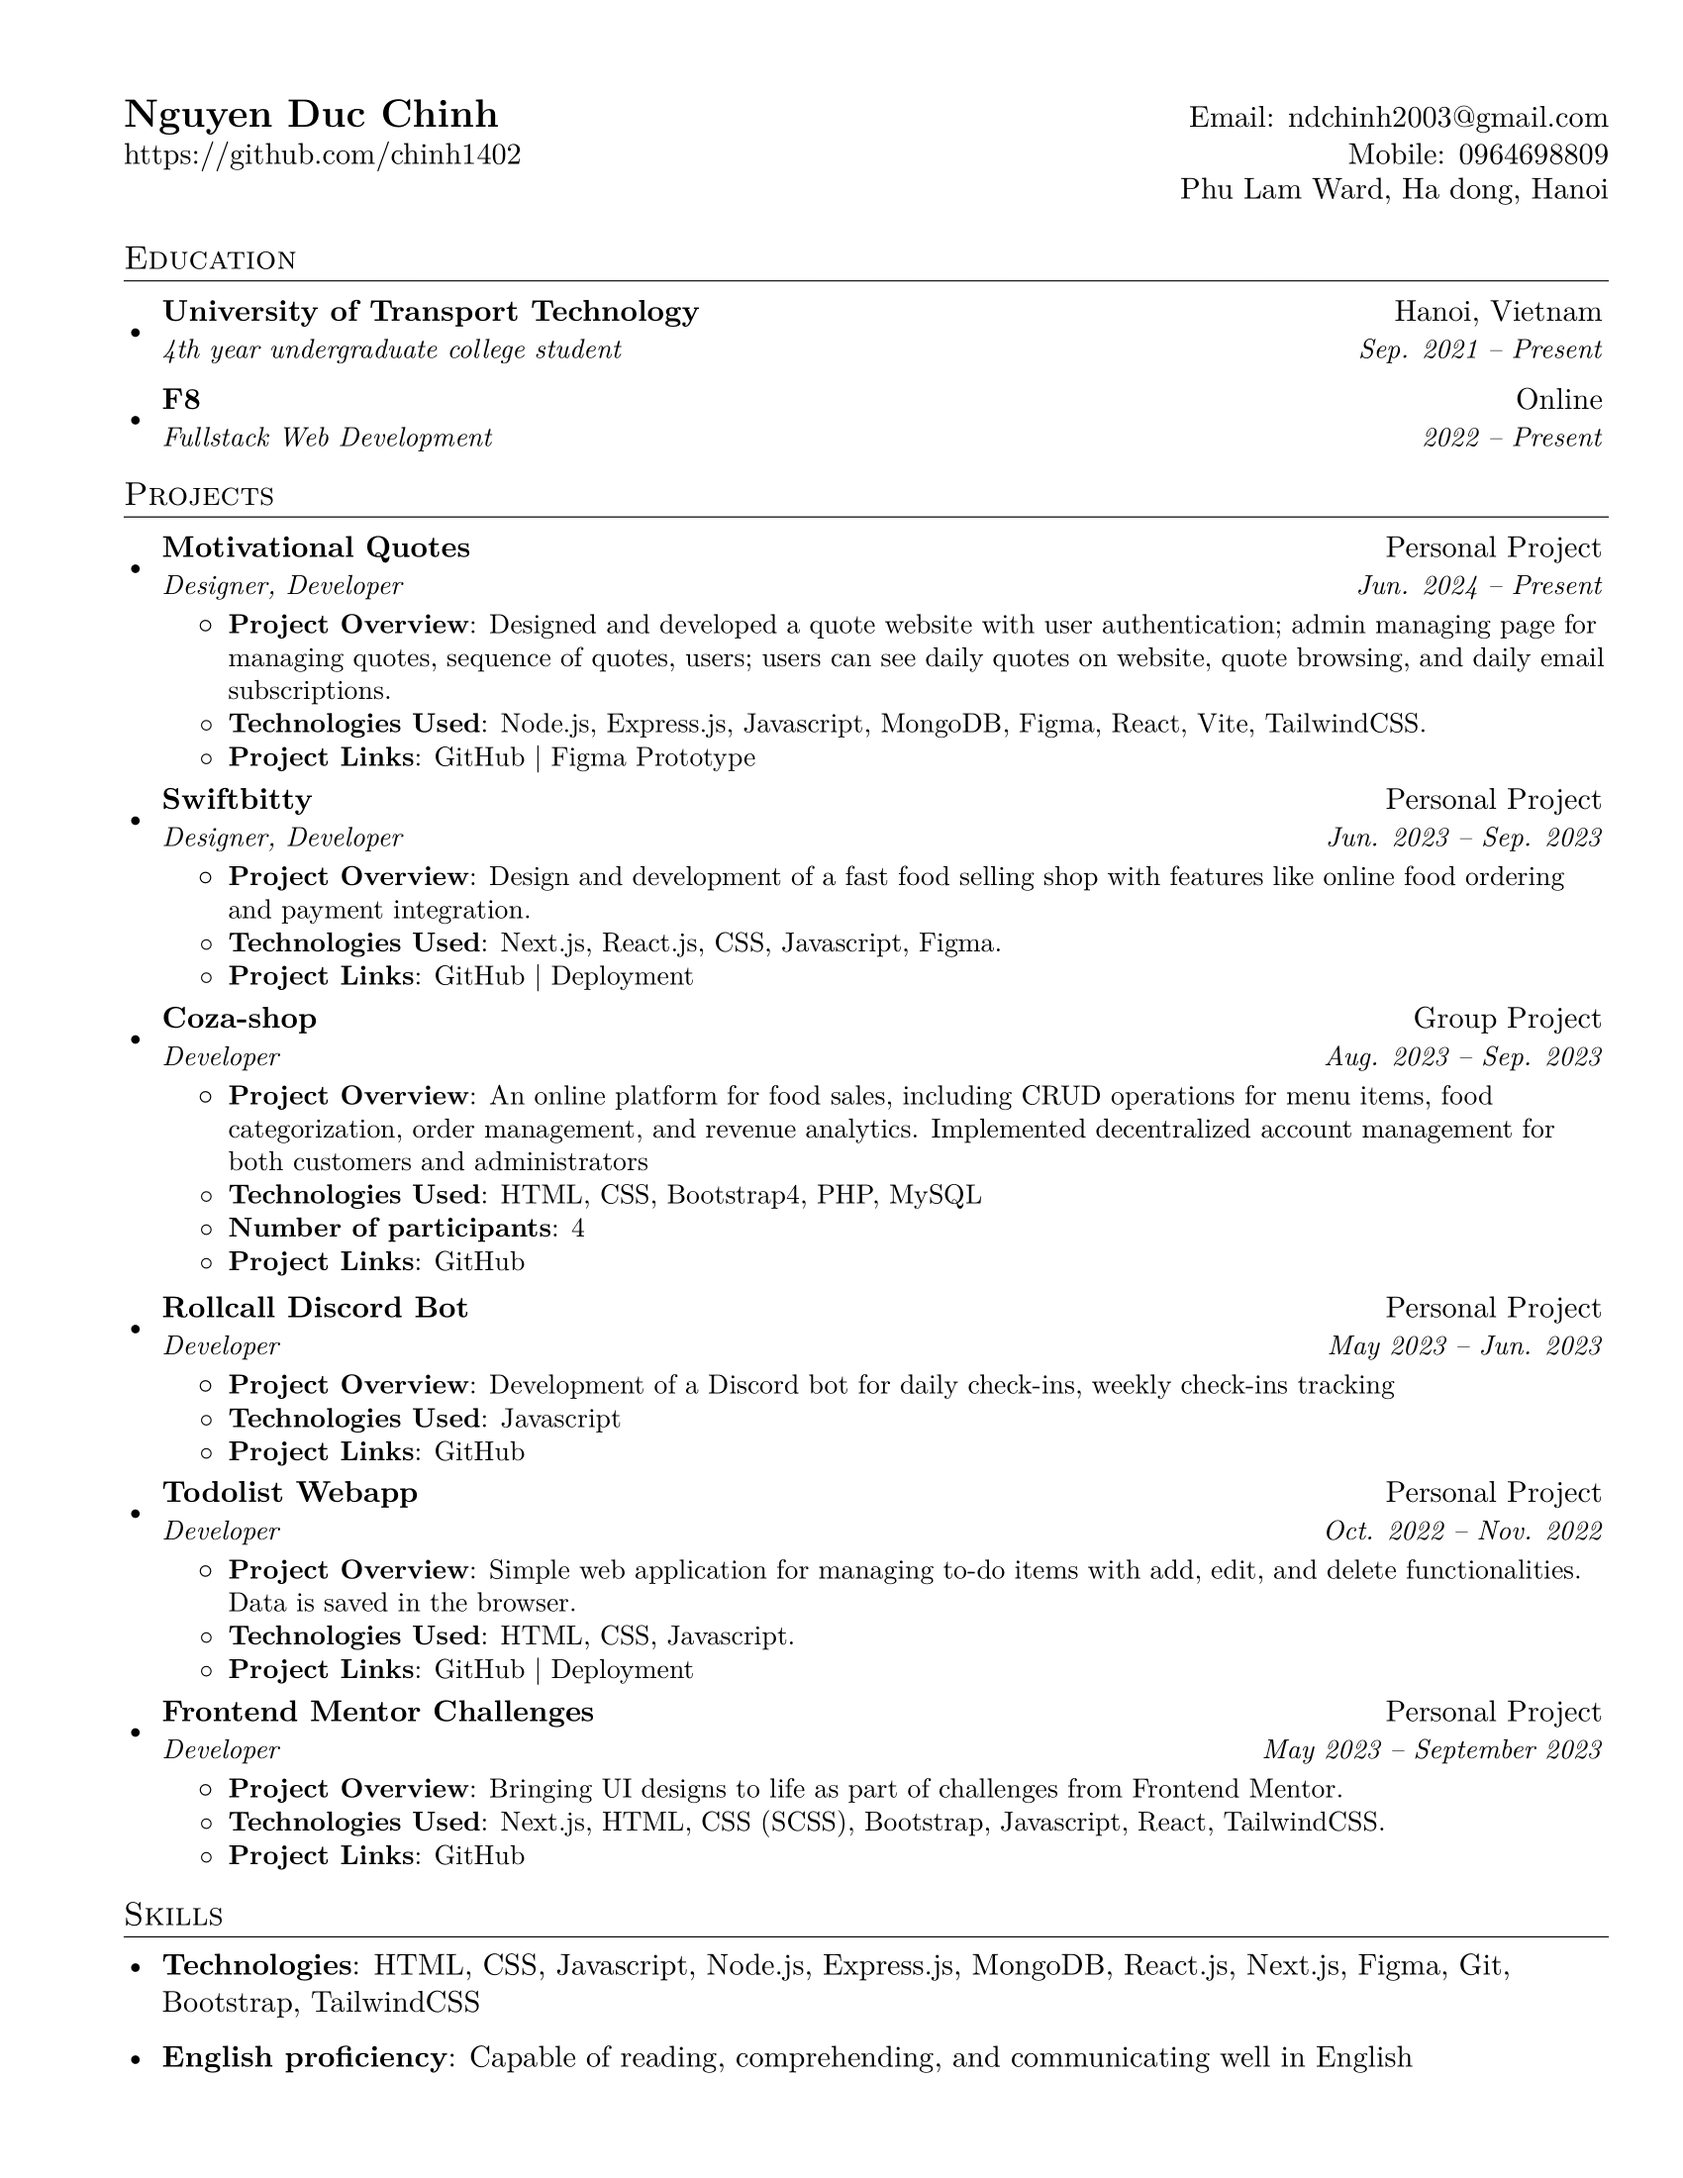
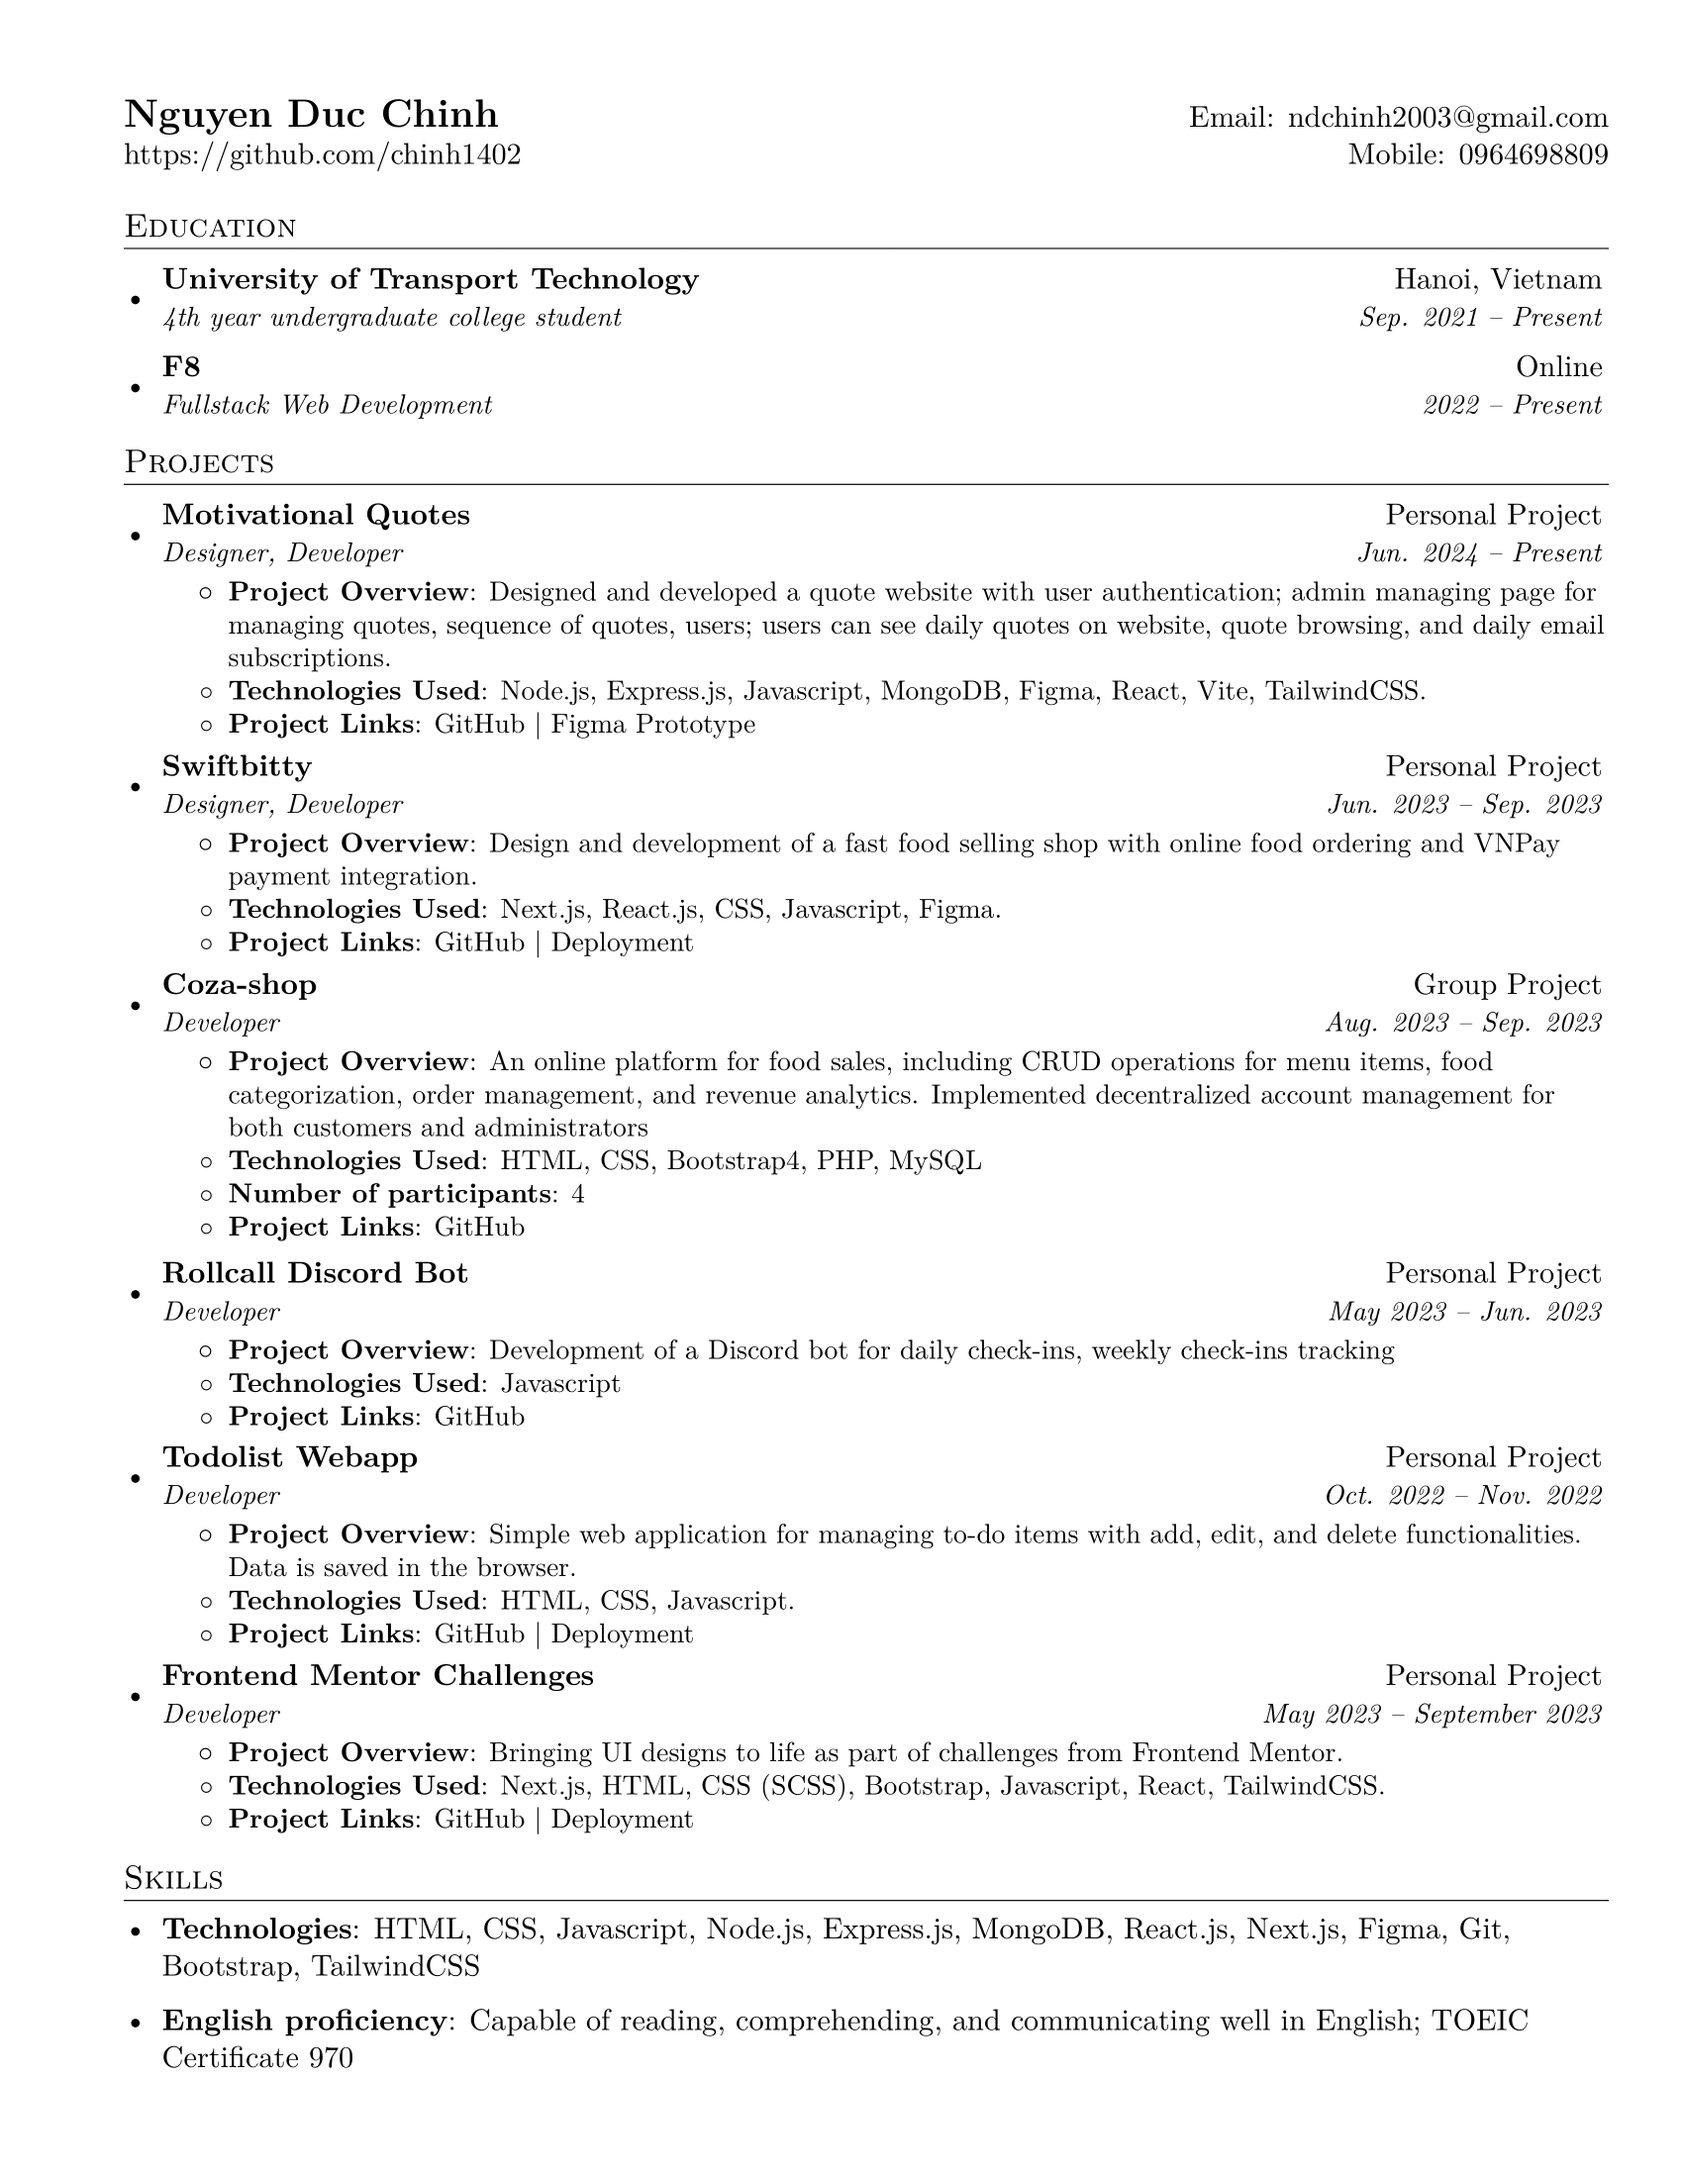
adding toeic search to eng cv

diff --git a/minimalist_chinh_cv_eng.tex b/minimalist_chinh_cv_eng.tex
@@ -110,7 +110,7 @@
       {Designer, Developer}{Jun. 2023 -- Sep. 2023}
       \resumeItemListStart
         \resumeItem{Project Overview}
-          {Design and development of a fast food selling shop with features like online food ordering and payment integration.}
+          {Design and development of a fast food selling shop with online food ordering and VNPay payment integration.}
         \resumeItem{Technologies Used}
           {Next.js, React.js, CSS, Javascript, Figma.}
         \resumeItem{Project Links}
@@ -165,7 +165,7 @@
         \resumeItem{Technologies Used}
           {Next.js, HTML, CSS (SCSS), Bootstrap, Javascript, React, TailwindCSS.}
         \resumeItem{Project Links}
-          {\href{https://github.com/chinh1402/fementor.io-projects}{GitHub}}
+          {\href{https://github.com/chinh1402/fementor.io-projects}{GitHub} | \href{https://www.frontendmentor.io/profile/chinh1402}{Deployment}}
       \resumeItemListEnd
 
   \resumeSubHeadingListEnd
@@ -179,7 +179,7 @@
  \resumeSubHeadingListEnd
  \resumeSubHeadingListStart
    \item{
-     \textbf{English proficiency}{: Capable of reading, comprehending, and communicating well in English}
+     \textbf{English proficiency}{: Capable of reading, comprehending, and communicating well in English; TOEIC Certificate 970}
 }
    }
  \resumeSubHeadingListEnd
